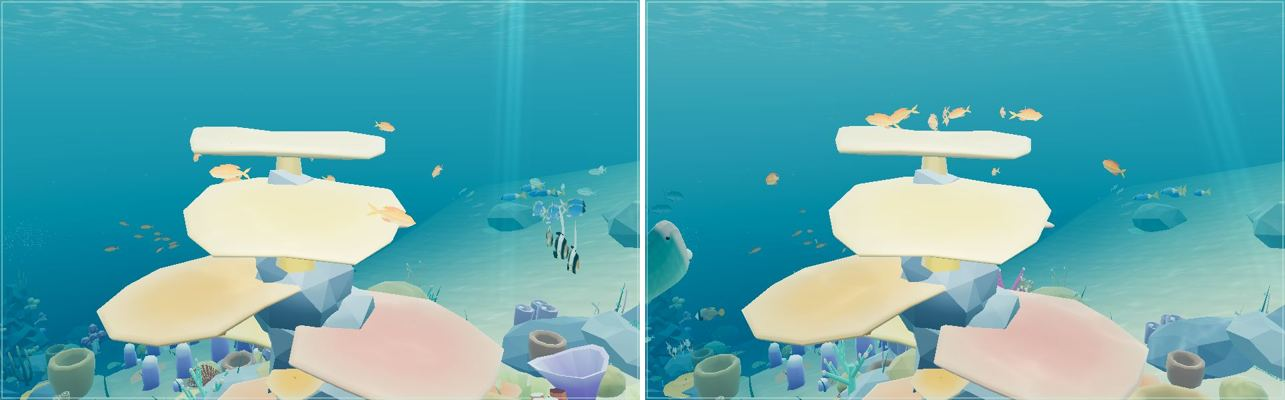
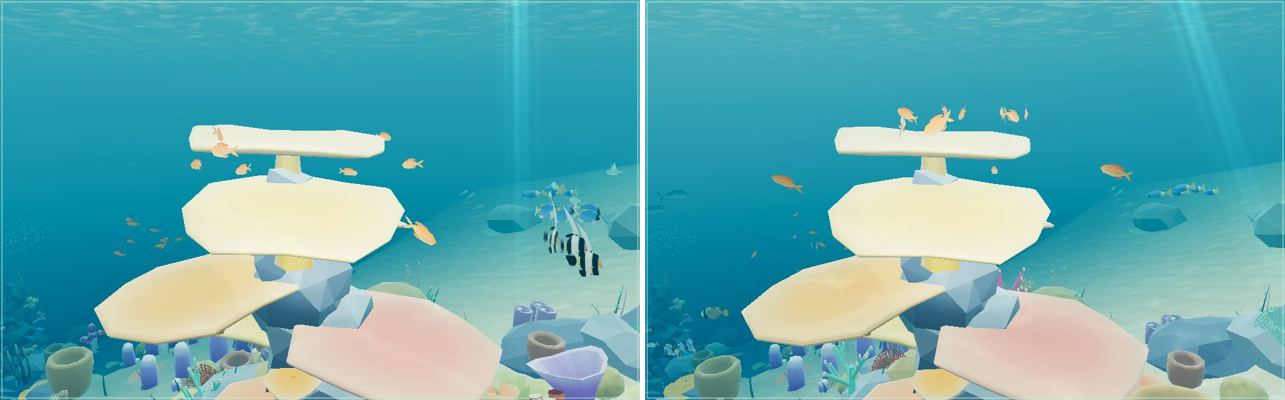
Reef audit: relocate, never drop; fans on their foot
Coral-set colonies that found no place in their garden spread further out round its anchors in the same depth band
(standard quality: 207 colonies against main's 186; economy 91 as on main). A rock that would bury a coral moves
out from it rather than being left out (193/196 and 388/395 of main's). A sea fan sets its foot along its own facing
and steps off a rim it would straddle: one sunk to the lower side in every direction was hidden in a rock. A swimmer
that may rise pulls up while a step ahead is refused, instead of stopping dead. The audit counts vertical motion as
swimming when it checks the clip.

Claude-Session: https://claude.ai/code/session_01STA7QMJwivGaFT9yXevFUa

diff --git a/ocean-refined/reef.js b/ocean-refined/reef.js
@@ -568,8 +568,7 @@ export function* reefSteps({ economy = false } = {}) {
     }
   }
 
-  function seaFan(origin, scale, color) {
-    const angle = random() * Math.PI;
+  function seaFan(origin, scale, color, angle = random() * Math.PI) {
     const rotation = new THREE.Quaternion().setFromEuler(new THREE.Euler(.07, angle, -.12 + random() * .24));
     fans.add(origin, [scale, scale * 1.25, scale], rotation, color);
   }
@@ -595,13 +594,21 @@ export function* reefSteps({ economy = false } = {}) {
     for (let r = 0; r < rockCount; r++) {
       const angle = random() * TAU, distance = random() * size * 1.9;
       const s = size * (.55 + random() * .85);
-      const x = cx + Math.cos(angle) * distance, z = cz + Math.sin(angle) * distance;
+      let x = cx + Math.cos(angle) * distance, z = cz + Math.sin(angle) * distance;
       if(grottoSites.some(([ax,az,,length])=>Math.abs(x-ax)<3.5+s*2&&Math.abs(z-az)<length+2+s*2))continue;
       // (The same draws from random(), in the same order, as when they were written in the call.)
-      const y = terrainHeightAt(x, z) + s * .24, height = s * (.45 + random() * .25), rotation = [random() * .3, random() * TAU, random() * .3];
+      let y = terrainHeightAt(x, z) + s * .24;
+      const height = s * (.45 + random() * .25), rotation = [random() * .3, random() * TAU, random() * .3];
       const stone = { x, y, z, rx: s * 1.25, ry: height, rz: s, reach: s * 1.6, inverse: new THREE.Quaternion().setFromEuler(new THREE.Euler(...rotation)).invert() };
-      // Nor over a coral a neighbouring colony has already planted (it would be buried in the rock).
-      if (planted.some(p => Math.abs(p.x - x) < stone.reach + p.reach && Math.abs(p.z - z) < stone.reach + p.reach && [[0, 0], [1, 0], [-1, 0], [0, 1], [0, -1]].some(([u, v]) => stoneTop(stone, p.x + u * p.reach, p.z + v * p.reach) > p.y + .3))) continue;
+      // Nor over a coral a neighbouring colony has already planted (it would be buried in the rock): the rock moves out
+      // from that coral, up to 4 m, keeping its own height above the sand where it comes to rest.
+      const buries = () => planted.find(p => Math.abs(p.x - stone.x) < stone.reach + p.reach && Math.abs(p.z - stone.z) < stone.reach + p.reach && [[0, 0], [1, 0], [-1, 0], [0, 1], [0, -1]].some(([u, v]) => stoneTop(stone, p.x + u * p.reach, p.z + v * p.reach) > p.y + .3));
+      for (let step = 0, coral; step < 8 && (coral = buries()); step++) {
+        const away = Math.hypot(stone.x - coral.x, stone.z - coral.z) || 1;
+        stone.x += (stone.x - coral.x) / away * .5; stone.z += (stone.z - coral.z) / away * .5; stone.y = terrainHeightAt(stone.x, stone.z) + s * .24;
+      }
+      if (buries() || grottoSites.some(([ax,az,,length])=>Math.abs(stone.x-ax)<3.5+s*2&&Math.abs(stone.z-az)<length+2+s*2)) continue;
+      x = stone.x; z = stone.z; y = stone.y;
       rocks.add(new THREE.Vector3(x, y, z), [s * 1.25, height, s], rotation, r % 3 ? '#7688a2' : '#99a9ba');
       stones.push(stone);
     }
@@ -634,8 +641,15 @@ export function* reefSteps({ economy = false } = {}) {
       } else if (type === 2) {
         // A fan is a half disc standing on its diameter, as wide as it is tall, whose foot starts 0.16 of its size up:
         // set it down so that foot meets the sand, and on a slope reaches the lower side.
-        const size = plantScale * .88, low = Math.min(ground(x + size, z), ground(x - size, z), ground(x, z + size), ground(x, z - size));
-        seaFan(origin.clone().setY(Math.min(origin.y, low - .04) - size * .2), size, color);
+        // Its foot runs along its own facing (the angle, drawn here as seaFan would draw it): set down so the lower end
+        // of the foot meets the ground, sand or rock.
+        // Where the foot would straddle a drop (a rim), it moves to the nearest spot within 4 m where it does not.
+        const size = plantScale * .88, angle = random() * Math.PI, ux = Math.cos(angle) * size * .9, uz = -Math.sin(angle) * size * .9;
+        const drop = (px, pz) => Math.abs(ground(px + ux, pz + uz) - ground(px - ux, pz - uz));
+        let fx = x, fz = z;
+        for (let d = .5; d <= 4 && drop(fx, fz) > size * .35; d += .5) for (let k = 0; k < 8; k++) { const px = x + Math.cos(k * Math.PI / 4) * d, pz = z + Math.sin(k * Math.PI / 4) * d; if (drop(px, pz) <= size * .35) { fx = px; fz = pz; break; } }
+        const foot = Math.min(ground(fx, fz) - .06, ground(fx + ux, fz + uz), ground(fx - ux, fz - uz)) - .04;
+        seaFan(new THREE.Vector3(fx, foot - size * .16, fz), size, color, angle);
       }
       else if (type === 3) brains.add(origin.clone().add(new THREE.Vector3(0, plantScale * .32, 0)), [plantScale * .7, plantScale * .5, plantScale * .65], [0, random() * TAU, .05], index % 2 ? '#d0bc7c' : '#8ebba7');
       else if (type === 4) {

diff --git a/ocean-refined/user-corals.js b/ocean-refined/user-corals.js
@@ -92,8 +92,10 @@ export function createUserCorals({terrainHeightAt,collisions,economy=false}={}){
         const anchors=patches[species.zone]??[],[minDepth,maxDepth]=ZONES[species.zone]??ZONES.mid;
         for(let i=0;i<target;i++){
           let placed=false;
-          for(let attempt=0;attempt<100&&!placed&&anchors.length;attempt++){
-            const anchor=anchors[(i+Math.floor(attempt/25))%anchors.length],angle=rng()*Math.PI*2,radius=Math.sqrt(rng())*7;
+          // A garden that has filled up spreads: tries further out round each of its anchors in turn, in the same depth
+          // band, rather than giving the colony up (with the keep-outs, the mid gardens came up a sixth short).
+          for(let attempt=0;attempt<320&&!placed&&anchors.length;attempt++){
+            const anchor=anchors[(i+Math.floor(attempt/40))%anchors.length],angle=rng()*Math.PI*2,radius=Math.sqrt(rng())*(7+6*Math.min(1,attempt/160));
             const x=anchor.x+Math.cos(angle)*radius,z=anchor.z+Math.sin(angle)*radius,height=floor(x,z),depth=-height;
             // The files are already at the site's scale (widthMetres): colonies vary around it rather than growing past it.
             const scale=.7+rng()*.45;

diff --git a/ocean-refined/fish-navigation.js b/ocean-refined/fish-navigation.js
@@ -83,7 +83,8 @@ export function fishNavigator(heightAt) {
     if (recover) targetY = Math.min(ceiling, Math.max(targetY, floor + .05));
     // Climbing out of the floor footprint answers at once; ordinary depth changes ease like the pace does.
     // (A blocked swimmer's pace eases toward zero but never quite reaches it, so `rise` is tested first.)
-    const vyWant = rise && s.blocked && !recover ? clamp((ceiling - s.y) * 1.2, 0, speed * climb) : travel > 0 || recover ? clamp((targetY - s.y) * 1.2, -speed * climb, speed * climb) : 0;
+    // (Nor while a step ahead is refused as it turns toward a clear course: it pulls up instead of stopping dead.)
+    const vyWant = rise && (s.blocked || travel === 0) && !recover ? clamp((ceiling - s.y) * 1.2, 0, speed * climb) : travel > 0 || recover ? clamp((targetY - s.y) * 1.2, -speed * climb, speed * climb) : 0;
     const vy = recover ? vyWant : (s.vy ?? 0) + (vyWant - (s.vy ?? 0)) * ease(3);
     s.vx = (x - s.x) / dt; s.vz = (z - s.z) / dt; s.vy = vy;
     s.x = x; s.z = z; s.y += vy * dt;
